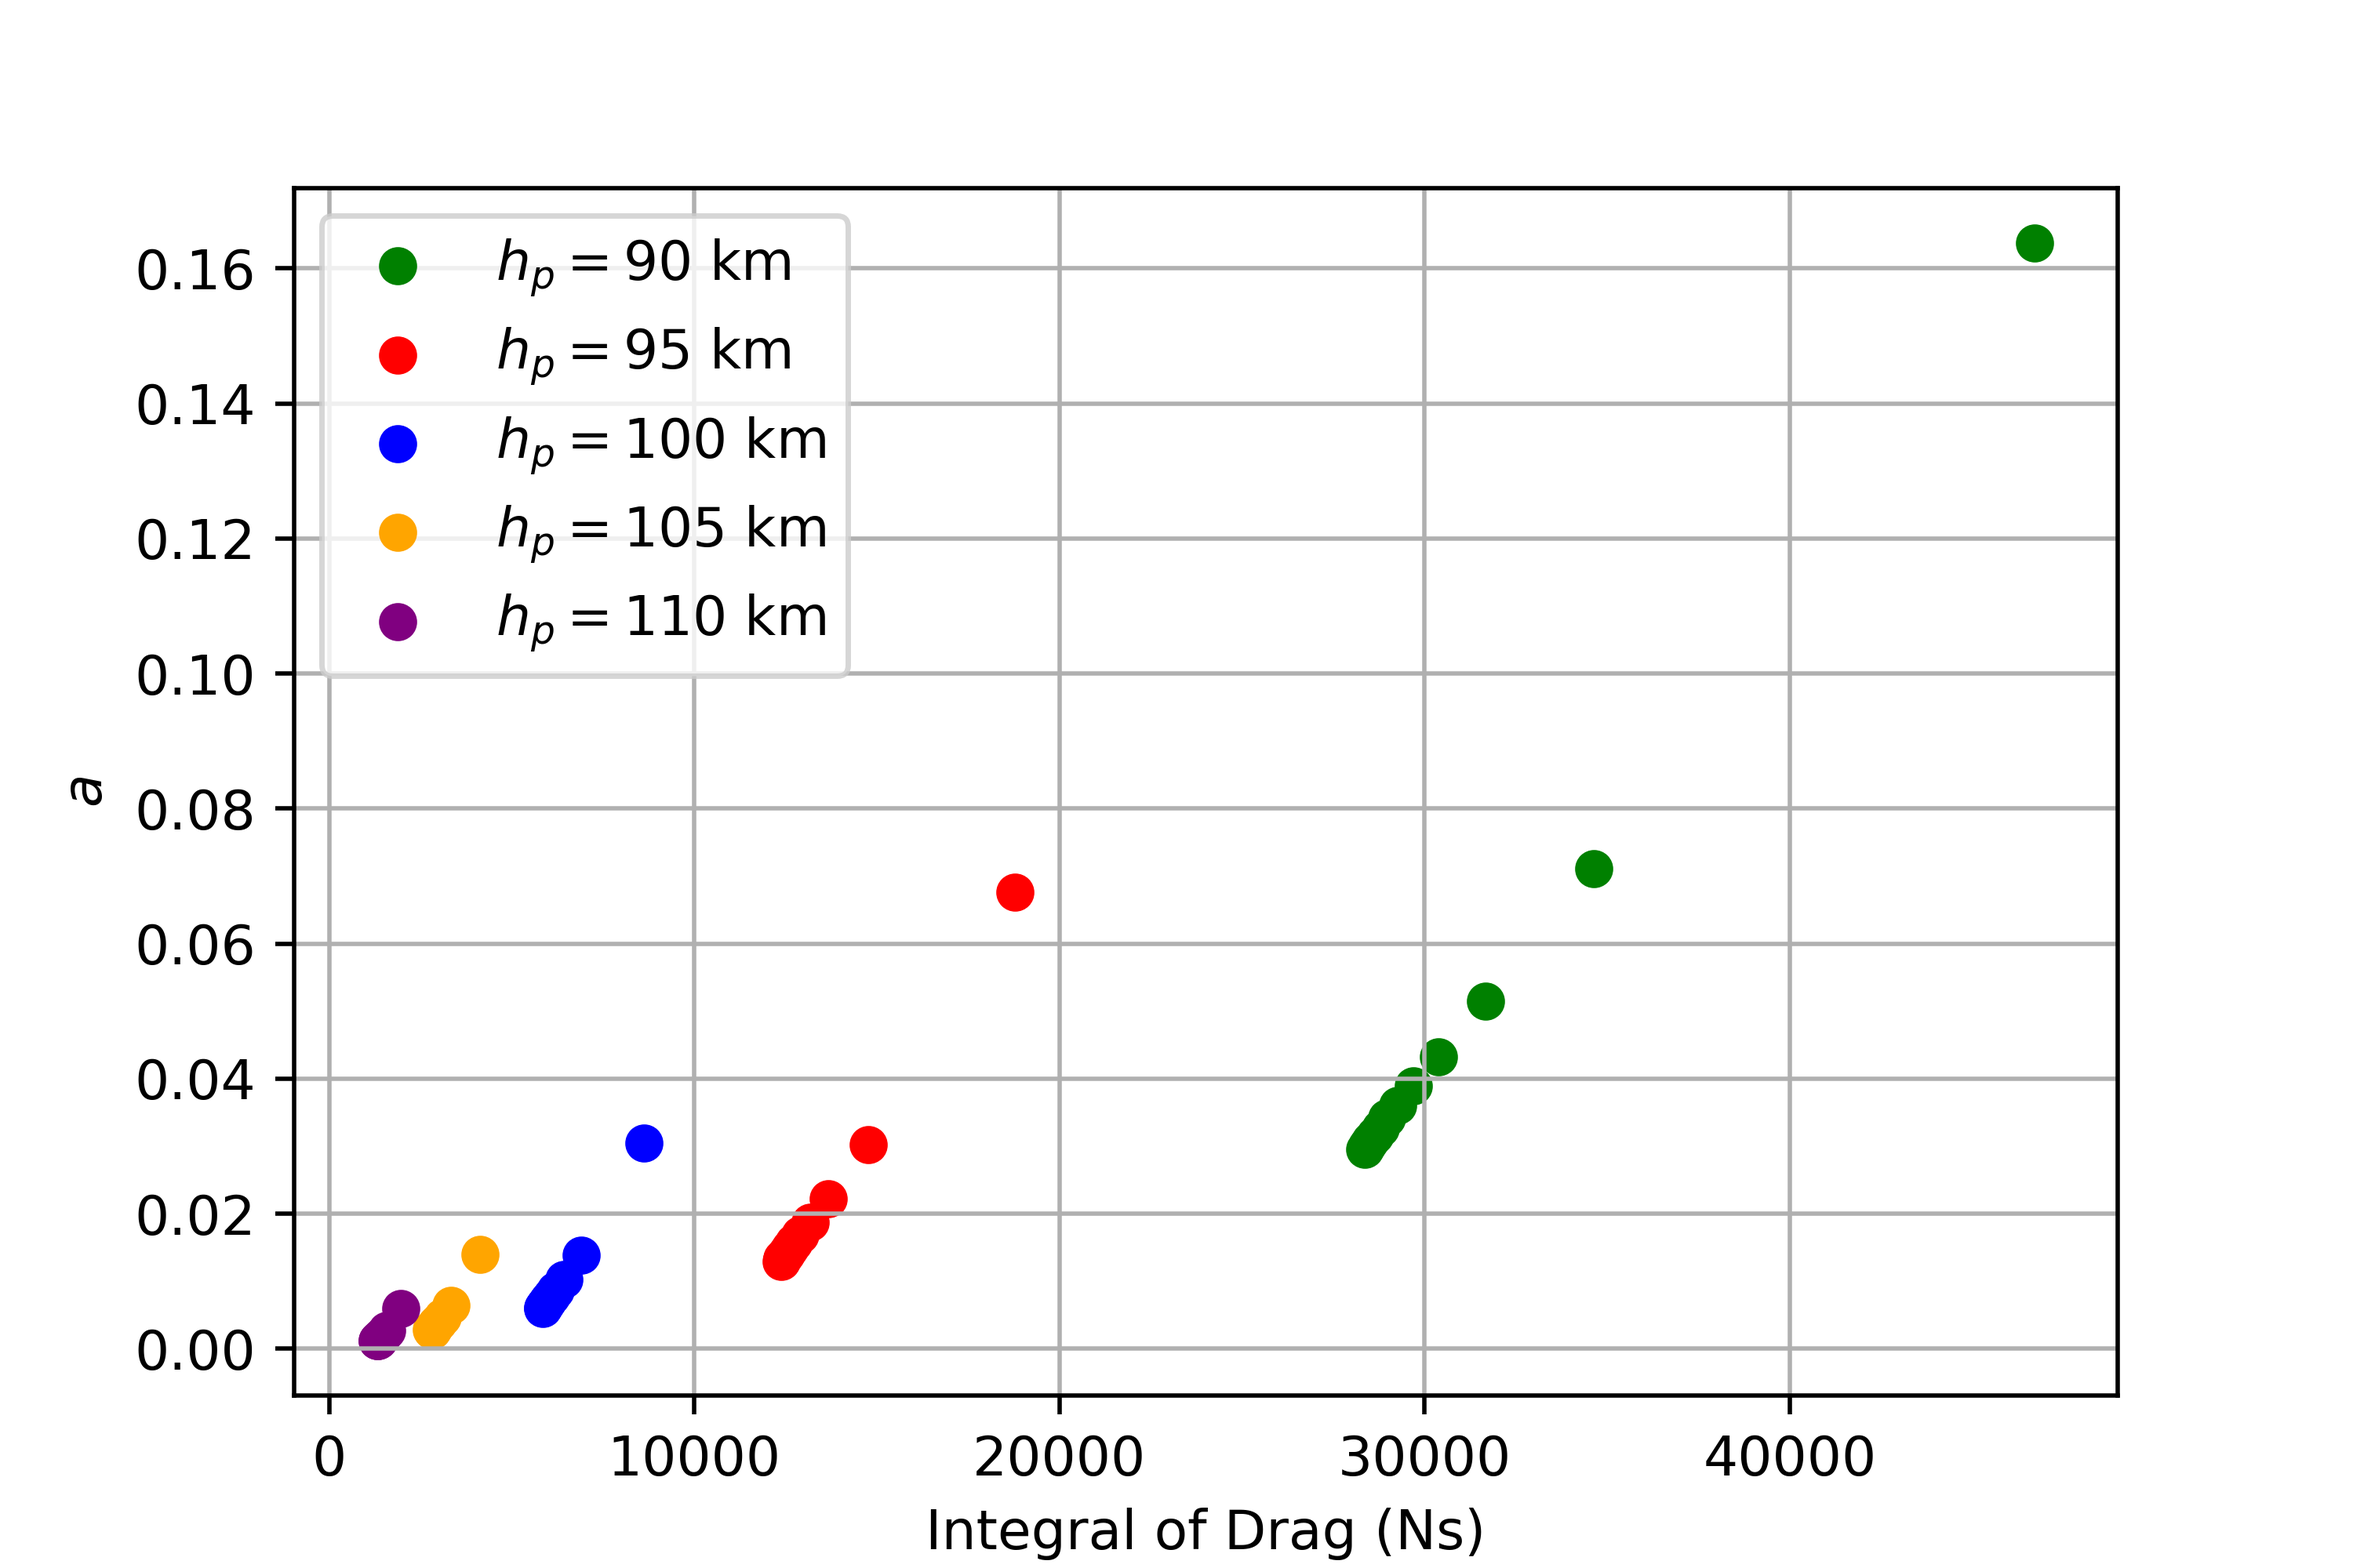
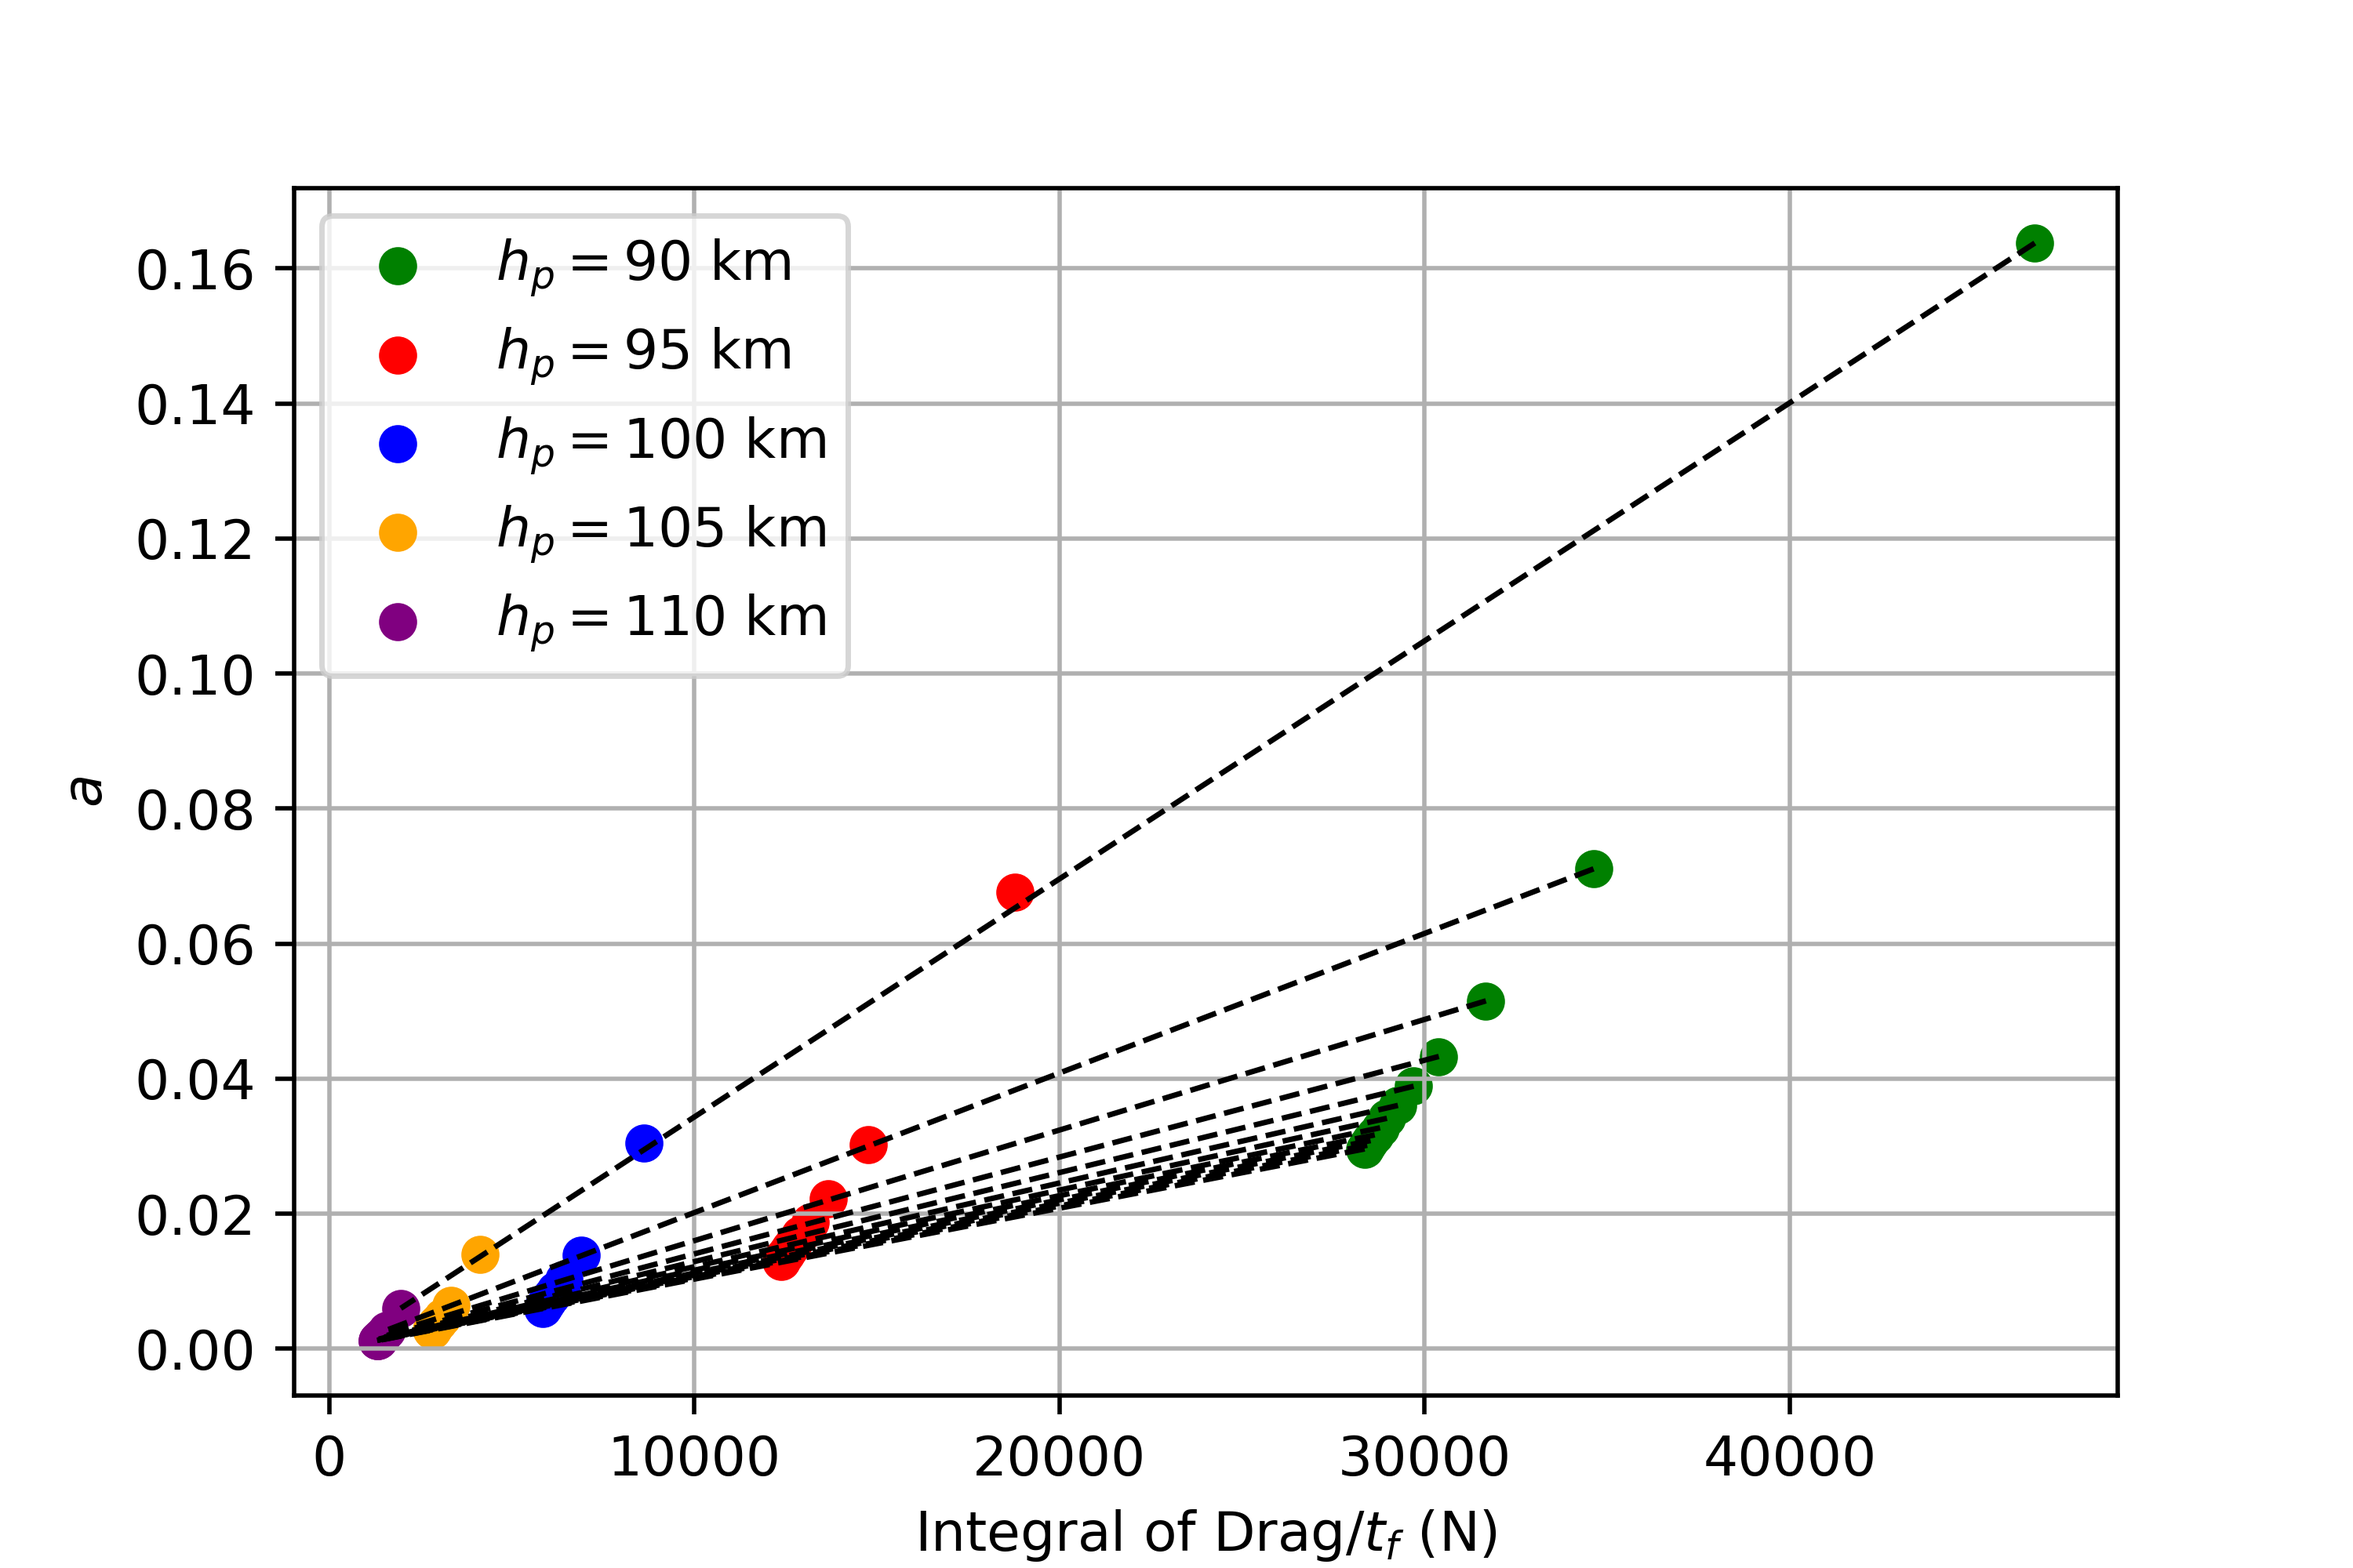
more plotting

diff --git a/data_corelation.py b/data_corelation.py
@@ -177,16 +177,27 @@ drag_int110 = drag_int110.tolist()[9:12] + drag_int110.tolist()[0:9]
 
 fig_acoeff = plt.figure("a_coeff", dpi=500, figsize=[6,4])
 plt.figure("a_coeff")
-plt.scatter(np.divide(drag_int90,t90), a_coeff90, color='green', marker='o', label = '$h_p = 90$ km')   
-plt.scatter(np.divide(drag_int95,t95), a_coeff95, color='red', marker='o', label = '$h_p = 95$ km')   
-plt.scatter(np.divide(drag_int100,t100), a_coeff100, color='blue', marker='o',  label = '$h_p = 100$ km')   
-plt.scatter(np.divide(drag_int105,t105), a_coeff105, color='orange', marker='o', label = '$h_p = 105$ km')   
-plt.scatter(np.divide(drag_int110,t110), a_coeff110, color='purple', marker='o',  label = '$h_p = 110$ km')   
+
+for i in range(0, 12):
+    # x = [drag_int90[i], drag_int95[i], drag_int100[i], drag_int105[i], drag_int110[i]]
+    x = [drag_int90[i], drag_int110[i]]
+
+    # y = [a_coeff90[i], a_coeff95[i], a_coeff100[i], a_coeff105[i], a_coeff110[i]]
+    y = [a_coeff90[i], a_coeff110[i]]
+
+    plt.plot(x, y,'k--', linewidth = "1")
+
+plt.scatter(drag_int90, a_coeff90, color='green', marker='o', label = '$h_p = 90$ km')   
+plt.scatter(drag_int95, a_coeff95, color='red', marker='o', label = '$h_p = 95$ km')   
+plt.scatter(drag_int100, a_coeff100, color='blue', marker='o',  label = '$h_p = 100$ km')   
+plt.scatter(drag_int105, a_coeff105, color='orange', marker='o', label = '$h_p = 105$ km')   
+plt.scatter(drag_int110, a_coeff110, color='purple', marker='o',  label = '$h_p = 110$ km')  
+
 # plt.scatter(y0, a_coeff, color='blue', marker='o')    
 plt.legend();plt.grid()
 plt.xlabel("Integral of Drag/$t_f$ (N)")
 plt.ylabel("$a$")
-fig_acoeff.savefig("all_sims_figures/a_coeff_drag_integral_tf.png")
+fig_acoeff.savefig("all_sims_figures/a_coeff_drag_integral.png")
 
 # X = [v090,v095,v0100,v0105,v0110]
 # X = [y090,y095,y0100,y0105,y0110]
